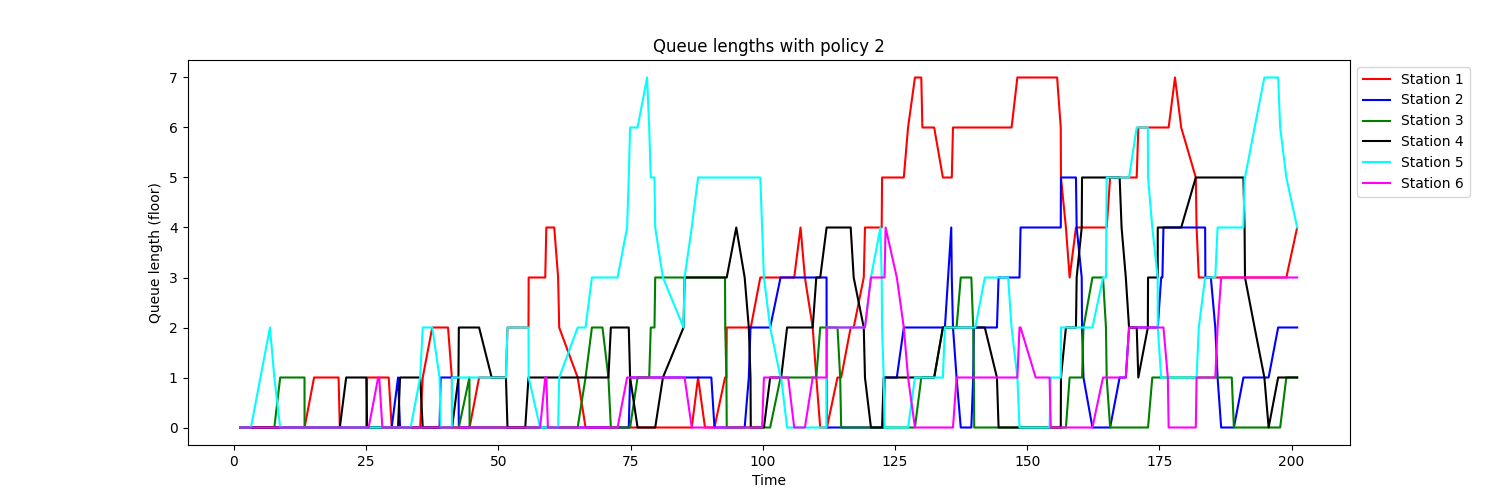
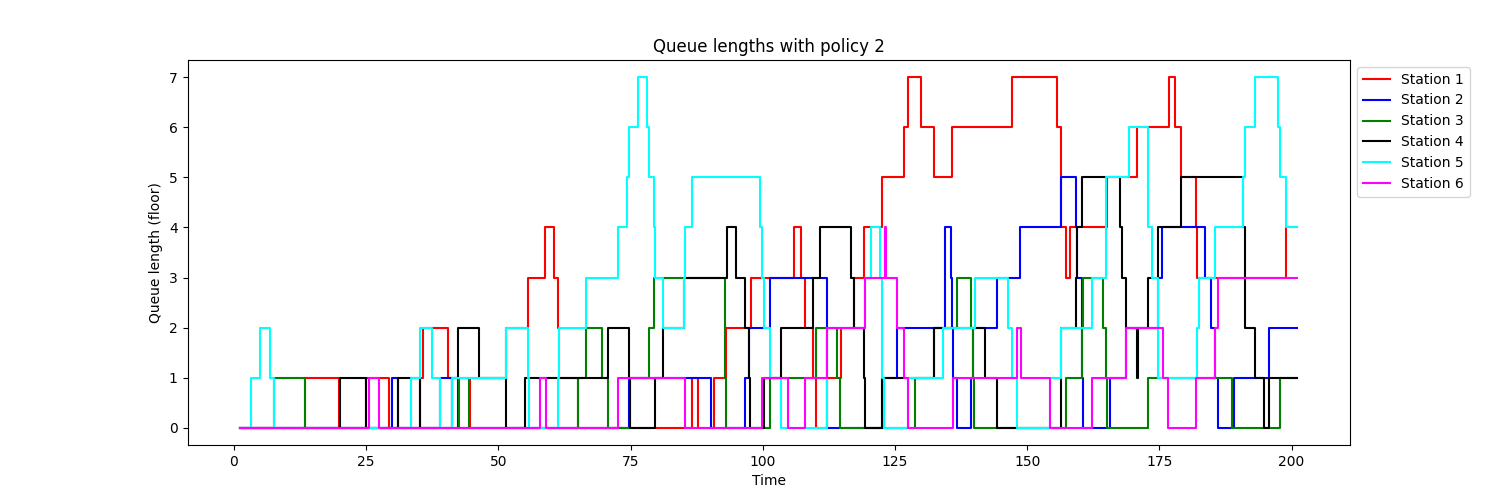
update plots

diff --git a/Assignment 2/main.py b/Assignment 2/main.py
@@ -398,7 +398,7 @@ def generate_q_paths():
             lengths = station.results.queue_lengths
             times = station.results.queue_length_times
 
-            plt.plot(times, lengths, color=color, label=f'Station {s+1}')
+            plt.step(times, lengths, color=color, label=f'Station {s+1}')
 
         plt.xlabel('Time')
         plt.ylabel('Queue length (floor)')
